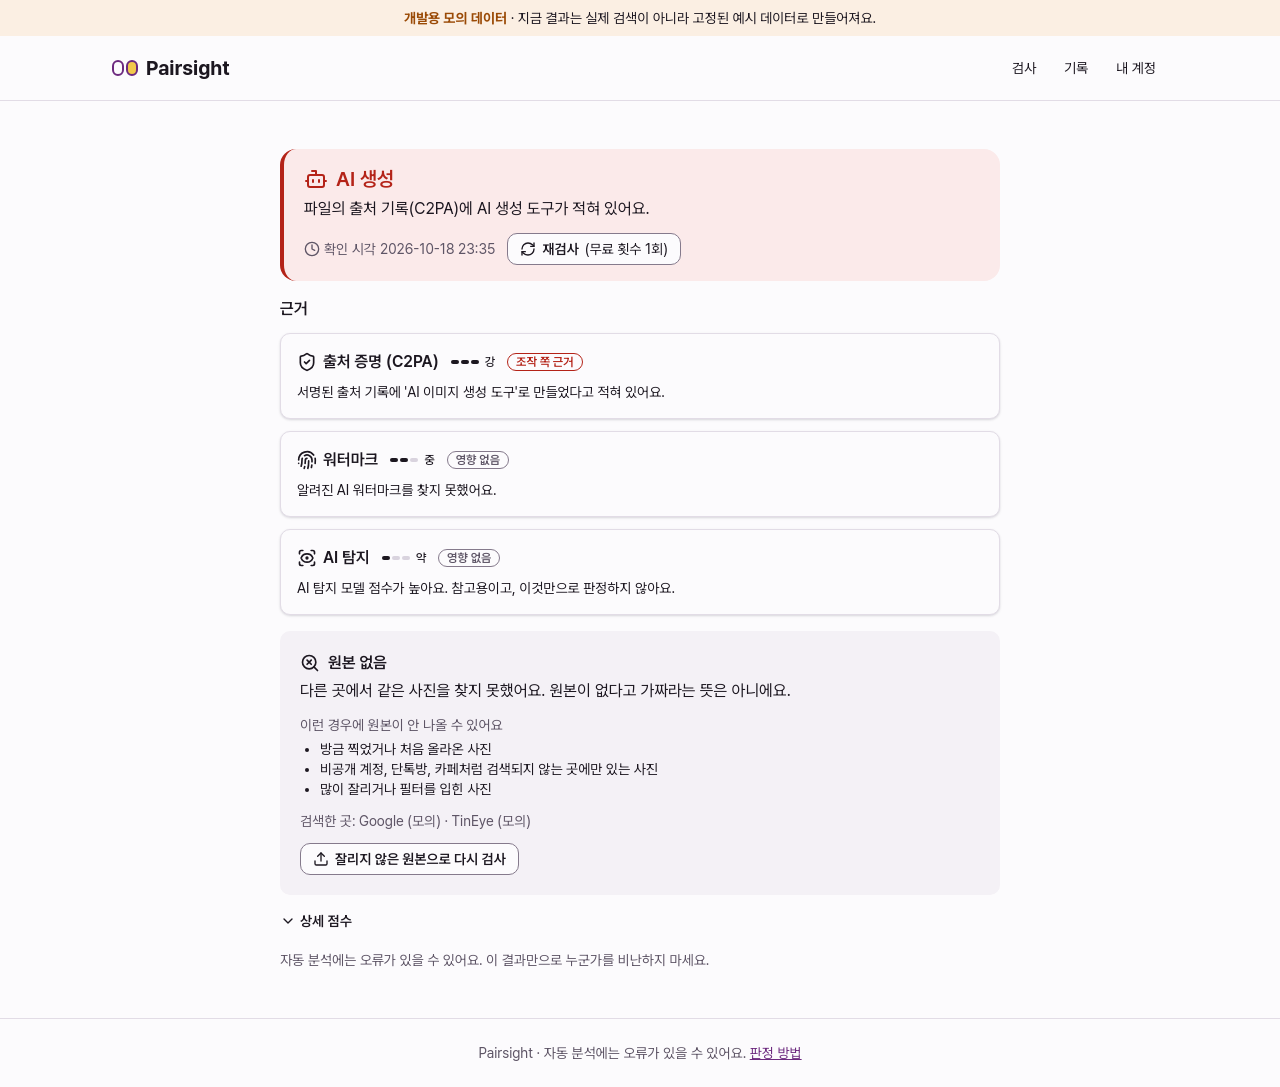
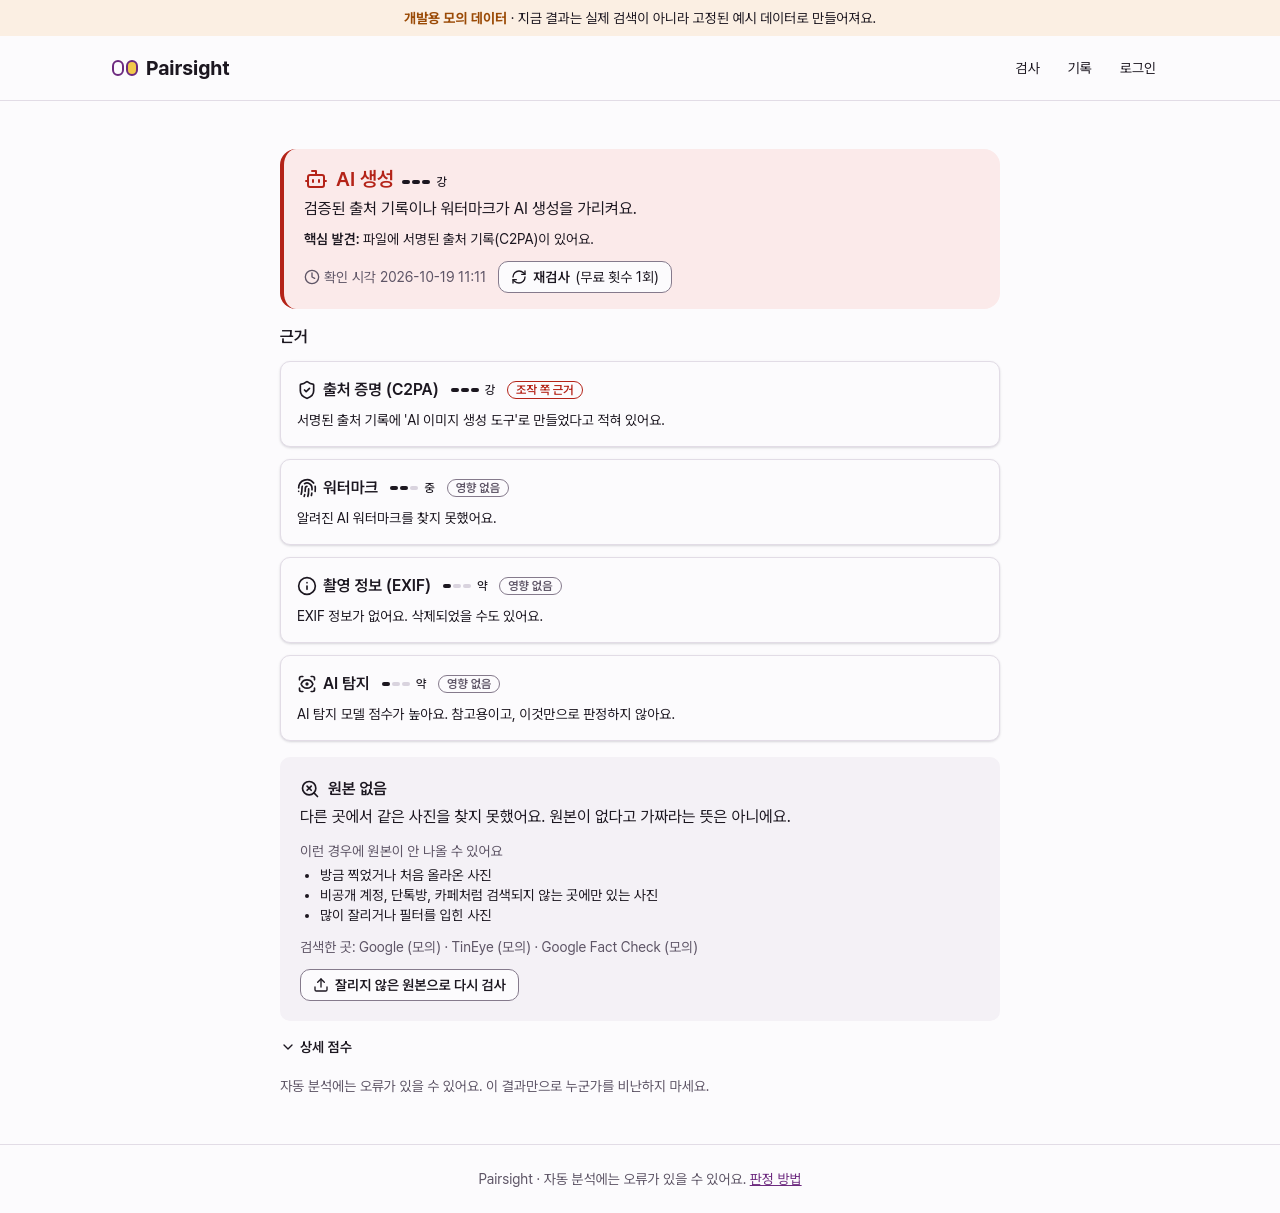
fixtures: redraw ai_generated as its own scene (no shared street template)
It was the street template recoloured, so in mock free mode a trusted
template photo passed as its original and the result was 편집 조작.
Now a ringed planet over a pink dune sea: no fixture passes pixel
alignment against it, scene similarity <= 0.591, and the RSS index
returns no candidates. Mock mode still yields AI 생성 (mock C2PA).

Tests: ai_generated vs every input, original and scene fixture (pixels
and scene gate), index miss. Captures: stage1 (mock) and stage5-free.

diff --git a/web/tests/scene-gate.test.ts b/web/tests/scene-gate.test.ts
@@ -46,6 +46,24 @@ describe("scene gate (DINOv2-small, exclusion only)", () => {
   }, T);
 });
 
+describe("ai_generated fixture is its own scene", () => {
+  // It used to share the street template with the other fixtures and came out 편집 조작 in mock free mode.
+  it("no other fixture passes as its original, by pixels or by scene", async () => {
+    const ai = await bytes("public/fixtures/inputs/ai_generated.png");
+    const others = [
+      ...["no_source", "inconclusive", "authentic", "miscontextualized", "edited", "trusted_edited", "trusted_context", "provider_timeout"].map((s) => `public/fixtures/inputs/${s}.png`),
+      ...["authentic", "edited", "inconclusive", "miscontextualized", "trusted_edited", "trusted_context"].map((s) => `public/fixtures/originals/${s}.png`),
+      ...["night_city", "beach", "forest", "fruit_table", "mountain_lake", "aerial_fields", "studio_teapot", "studio_plant", "studio_vase", "studio_bicycle"].map((s) => `public/fixtures/scenes/${s}.png`),
+    ];
+    const pixelsOnly = new LocalImageComparisonProvider(null);
+    for (const o of others) {
+      const other = await bytes(o);
+      expect((await pixelsOnly.compare(ai, other, signal())).matched, o).toBe(false);
+      expect(await gate.similarity(ai, other, signal()), o).toBeLessThan(SCENE_MIN_SIMILARITY);
+    }
+  }, T);
+});
+
 describe("counterexample: only different-scene candidates", () => {
   // Upload: studio_teapot. Candidates: three other studio photos on a (fictional) trusted wire page dated 2020-05-01.
   // Pixel alignment accepts all three as "the same picture with one changed region" (scripts/measure-scene-gate.ts),

diff --git a/web/scripts/measure-scene-gate.ts b/web/scripts/measure-scene-gate.ts
@@ -49,7 +49,12 @@ async function main() {
   for (let i = 0; i < scenes.length; i++) for (let j = i + 1; j < scenes.length; j++) await add(studio(scenes[i]) && studio(scenes[j]) ? "lookalike" : "different", scenes[i], scenes[j], await scene(scenes[i]), await scene(scenes[j]));
   for (const s of scenes) await add("different", s, "inputs/authentic", await scene(s), await f("public/fixtures/inputs/authentic.png"));
   // template scenes: same drawn layout, different colours / sign / extras (the fixtures that share one template)
-  const tpl = ["ai_generated", "no_source", "inconclusive", "authentic", "miscontextualized", "provider_timeout"];
+  // ai_generated is drawn as its own scene (make-fixtures.py): it must not resemble any other fixture.
+  for (const o of ["no_source", "inconclusive", "authentic", "miscontextualized", "provider_timeout", "edited", "trusted_edited", "trusted_context"]) {
+    await add("different", "inputs/ai_generated", `inputs/${o}`, await f("public/fixtures/inputs/ai_generated.png"), await f(`public/fixtures/inputs/${o}.png`));
+  }
+  for (const s of scenes) await add("different", "inputs/ai_generated", s, await f("public/fixtures/inputs/ai_generated.png"), await scene(s));
+  const tpl = ["no_source", "inconclusive", "authentic", "miscontextualized", "provider_timeout"];
   for (let i = 0; i < tpl.length; i++) for (let j = i + 1; j < tpl.length; j++) await add("template", tpl[i], tpl[j], await f(`public/fixtures/inputs/${tpl[i]}.png`), await f(`public/fixtures/inputs/${tpl[j]}.png`));
 
   // per-image embedding time, steady state

diff --git a/web/tests/rss-index.test.ts b/web/tests/rss-index.test.ts
@@ -140,6 +140,9 @@ describe("RssIndexReverseSearch", () => {
     expect(hit.searchedProviders[0]).toMatch(/^신뢰 출처 RSS 색인 \(\d{4}-\d{2}-\d{2}부터 수집\)$/);
     const miss = await search.search(await input("tests/fixtures/comparison/unrelated.png"), AbortSignal.timeout(10000));
     expect(miss.candidates).toEqual([]);
+    // ai_generated is its own scene; it once shared the street template and hit the index.
+    const ai = await search.search(await input("public/fixtures/inputs/ai_generated.png"), AbortSignal.timeout(10000));
+    expect(ai.candidates).toEqual([]);
   });
 
   it("end to end: index → candidate page check → comparison → v3, citing the right page", async () => {

diff --git a/web/scripts/make-fixtures.py b/web/scripts/make-fixtures.py
@@ -59,8 +59,33 @@ old = scene((214, 222, 230), (236, 238, 240), "MARKET", (122, 46, 46), label="SA
 save(old, "inputs", "miscontextualized")
 save(old, "originals", "miscontextualized")
 
-# AI 생성: no earlier copy; C2PA says an AI tool made it.
-save(scene((196, 170, 220), (90, 80, 110), "DREAM", (60, 30, 90), extra=sun, label="SAMPLE ai"), "inputs", "ai_generated")
+# AI 생성: no earlier copy; C2PA says an AI tool made it. Its own composition (not the street template), so no
+# other fixture can pass as its "original": a ringed planet over a pink dune sea with floating lanterns.
+def dreamscape():
+    im = Image.new("RGB", (W, H))
+    d = ImageDraw.Draw(im)
+    for y in range(H):  # violet sky into a pink horizon, then dunes
+        t = y / (H - 1)
+        if y < 360:
+            c = (int(40 + 190 * t), int(20 + 60 * t), int(90 + 80 * t))
+        else:
+            c = (int(236 - 60 * (t - .6)), int(150 - 70 * (t - .6)), int(120 - 40 * (t - .6)))
+        d.line([0, y, W, y], fill=c)
+    d.ellipse([90, 60, 330, 300], fill=(250, 196, 120))  # planet, upper left
+    d.ellipse([50, 165, 370, 205], outline=(255, 236, 200), width=6)  # ring
+    d.ellipse([150, 120, 210, 150], fill=(230, 160, 100))
+    for i, x in enumerate(range(-100, W + 200, 180)):  # dune crests
+        d.pieslice([x, 330 + (i % 2) * 40, x + 360, 560 + (i % 2) * 40], 180, 360, fill=(200 - i * 6, 110 - i * 4, 120))
+    for x, y, r in [(520, 120, 34), (640, 210, 26), (450, 250, 20), (720, 90, 18), (590, 320, 14)]:  # lanterns
+        d.ellipse([x - r - 10, y - r - 10, x + r + 10, y + r + 10], fill=(255, 220, 160))
+        d.ellipse([x - r, y - r, x + r, y + r], fill=(255, 140, 60))
+        d.line([x, y + r, x, y + r + 30], fill=(120, 60, 40), width=3)
+    d.rectangle([16, 16, 16 + 12 * len("SAMPLE ai") + 24, 52], fill=(28, 23, 32))
+    d.text((28, 22), "SAMPLE ai", fill=(255, 255, 255), font_size=22)
+    return im
+
+
+save(dreamscape(), "inputs", "ai_generated")
 
 # 판단 불가: only a loosely similar picture exists, no date, no provenance.
 save(scene((170, 196, 170), (96, 110, 90), "PARK", (40, 90, 60), label="SAMPLE inconclusive"), "inputs", "inconclusive")
